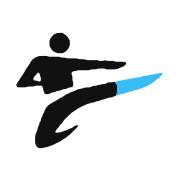
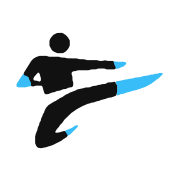
Icona con mani e piedi azzurri; tasti +1 solo a incontro iniziato
- make-icon.py: le estremità (due mani, piede della gamba tesa e della gamba piegata)
  diventano azzurre, trovate come punte dello scheletro della sagoma; favicon rigenerate
- Tasti di simulazione Hong/Chong: "+1" al posto del fulmine, visibili solo durante l'incontro

Changed region(s): [[0.0833, 0.3889, 0.1944, 0.5], [0.3333, 0.6944, 0.4444, 0.7778], [0.6111, 0.3333, 0.7222, 0.3889]]

diff --git a/src/components/arena/ArenaControls.tsx b/src/components/arena/ArenaControls.tsx
@@ -1,5 +1,5 @@
 import React from 'react';
-import { Minus, PersonStanding, Play, Plus, Square, Zap } from 'lucide-react';
+import { Minus, PersonStanding, Play, Plus, Square } from 'lucide-react';
 import { Athlete, COUNTDOWN_MAX, DIFFICOLTA, Difficolta, DURATA_OPTIONS, Tipologia } from '../../game/config';
 
 interface ArenaControlsProps {
@@ -14,6 +14,8 @@ interface ArenaControlsProps {
   /** incontro o countdown in corso: impostazioni bloccate */
   busy: boolean;
   inCountdown: boolean;
+  /** incontro iniziato (dopo il countdown): solo allora compaiono i tasti +1 */
+  matchActive: boolean;
   swapSides: boolean;
   onSimulate: (a: Athlete) => void;
   /** "Ricalibra" compare solo dopo la prima calibrazione (prima c'è il tasto grande al centro) */
@@ -80,17 +82,16 @@ export const ArenaControls: React.FC<ArenaControlsProps> = (p) => (
     </div>
 
     <div className="flex items-center gap-2">
-      {/* simulazione dei colpi (segue i lati: con lo scambio Chong va a sinistra) */}
-      {(['hong', 'chong'] as const).map((a) => (
+      {/* +1 manuale per atleta, solo a incontro iniziato (segue i lati: con lo scambio Chong va a sinistra) */}
+      {p.matchActive && (['hong', 'chong'] as const).map((a) => (
         <button
           key={a}
           onClick={() => p.onSimulate(a)}
           style={{ order: (a === 'hong') !== p.swapSides ? 1 : 2 }}
           className={`h-10 ${a === 'hong' ? 'bg-red-600/90 hover:bg-red-500' : 'bg-blue-600/90 hover:bg-blue-500'} text-white font-comic text-xs px-3 rounded comic-box-sm flex items-center gap-1 cursor-pointer`}
-          title={`Simula colpo bersaglio ${a === 'hong' ? 'Hong' : 'Chong'}`}
+          title={`+1 a ${a === 'hong' ? 'Hong' : 'Chong'}`}
         >
-          <Zap className="w-4 h-4" />
-          <span className="hidden 2xl:inline">COLPISCI</span> {a.toUpperCase()}
+          <span className="text-base leading-none">+1</span> {a.toUpperCase()}
         </button>
       ))}
 

diff --git a/src/components/MotionArena.tsx b/src/components/MotionArena.tsx
@@ -277,6 +277,7 @@ export const MotionArena: React.FC<MotionArenaProps> = ({ facingMode, cameraEnab
         onDifficolta={setDifficolta}
         busy={match.busy}
         inCountdown={match.inCountdown}
+        matchActive={match.garaAttiva}
         swapSides={swapSides}
         onSimulate={simulateHit}
         calibrated={calibration.calibrated}

diff --git a/scripts/make-icon.py b/scripts/make-icon.py
@@ -4,6 +4,8 @@ Ricava l'icona dell'app dal logo di riferimento (reference.png).
 - segmenta la figura azzurra (testa, busto, braccia, entrambe le gambe) e la scia scura della gamba tesa
 - scarta sfondo arancione, linee di velocità e scritta
 - tutta la figura diventa nera; la scia (onda) sotto la gamba tesa diventa azzurra
+- anche le altre estremità diventano azzurre: le due mani e il piede della gamba piegata
+  (trovate come punte dello scheletro della sagoma, colorando il tratto di corpo vicino a ciascuna)
 - vettorializza i contorni (ingranditi e smussati) in public/logo.svg su sfondo bianco
 
 Uso:  python3 scripts/make-icon.py [reference.png] [public/logo.svg]
@@ -52,6 +54,41 @@ for i in range(1, n):
         wave |= comp
 # sottile stacco bianco tra gamba nera e onda azzurra
 body &= ~cv2.dilate(wave.astype(np.uint8), np.ones((3, 3), np.uint8)).astype(bool)
+
+# 3b. Estremità: punte dello scheletro della figura (testa esclusa: è un pezzo a parte, rotondo)
+skel = cv2.ximgproc.thinning(body.astype(np.uint8) * 255) > 0
+neighbours = cv2.filter2D(skel.astype(np.uint8), -1, np.ones((3, 3), np.float32)) - 1
+tips = [(int(x), int(y)) for y, x in np.argwhere(skel & (neighbours == 1))]
+near_wave = cv2.dilate(wave.astype(np.uint8), np.ones((15, 15), np.uint8)).astype(bool)
+tips = [(x, y) for x, y in tips if not near_wave[y, x]]  # la gamba tesa ha già la sua onda
+rows = np.argwhere(body)[:, 0]
+torso_y = rows.mean()
+upper = [t for t in tips if t[1] < torso_y]
+lower = [t for t in tips if t[1] > rows.min() + (rows.max() - rows.min()) * 2 / 3]  # terzo più basso: gamba piegata
+hand_r = max(upper, key=lambda t: t[0])  # punta del braccio teso
+hand_l = min(upper, key=lambda t: t[0])  # punta del braccio in guardia
+foot = max(lower, key=lambda t: t[0])    # punta dell'uncino della gamba piegata (il ginocchio sta più a sinistra)
+
+def along_body(tip, reach):
+    """Parte del corpo raggiungibile dalla punta entro `reach` pixel camminando dentro la figura"""
+    dist = np.full(body.shape, np.inf)
+    dist[tip[1], tip[0]] = 0
+    queue = [tip]
+    for x, y in queue:
+        d = dist[y, x]
+        for dx in (-1, 0, 1):
+            for dy in (-1, 0, 1):
+                nx, ny = x + dx, y + dy
+                if 0 <= nx < W and 0 <= ny < H and body[ny, nx]:
+                    nd = d + (1.414 if dx and dy else 1)
+                    if nd <= reach and nd < dist[ny, nx]:
+                        dist[ny, nx] = nd
+                        queue.append((nx, ny))
+    return dist <= reach
+
+ends = along_body(hand_r, 11) | along_body(hand_l, 11) | along_body(foot, 15)
+body &= ~cv2.dilate(ends.astype(np.uint8), np.ones((3, 3), np.uint8)).astype(bool)  # stacco bianco come per l'onda
+wave |= ends
 
 # Maschere morbide finali (riprendono i bordi sfumati attorno alle parti scelte)
 soft = np.maximum(blueness, darkness * dark_hard.astype(float))
